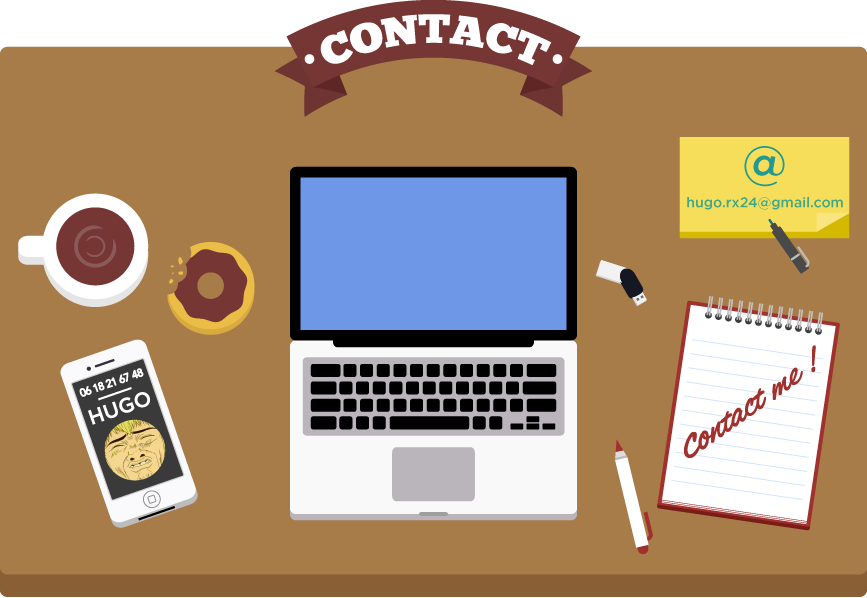
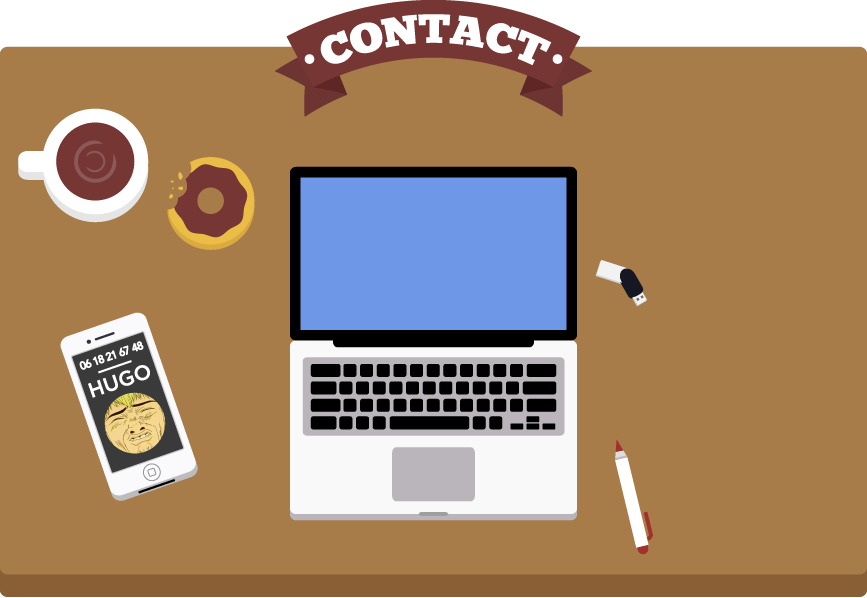
Petites corrections

Changed region(s): [[0.0, 0.1806, 0.3114, 0.903], [0.7474, 0.4816, 0.9654, 0.903], [0.7785, 0.2107, 0.9965, 0.4515]]

diff --git a/style.css b/style.css
@@ -11,6 +11,7 @@ html, body{
     background-color:#FCF9EE;
 }
 
+
 .bloc-center {
             margin:auto;
             position:relative;
@@ -59,6 +60,7 @@ html, body{
 .bloc-accueil-projects:hover {
 
         transform:scale(1.1);
+        transition: transform 1s ease-in-out;
 
 }
 
@@ -72,6 +74,7 @@ html, body{
 .bloc-accueil-contact:hover {
 
         transform:scale(1.1);
+        transition: transform 1s ease;
 
 }
 
@@ -87,13 +90,14 @@ html, body{
 .bloc-accueil-about:hover {
 
         transform:scale(1.1);
+        transition: transform 1s ease;
 
 }
 
 
 
 .bloc-project {
-
+            position:relative;
             background-image:url(images/page-projet.png);
             width:695px;
             height:604px;
@@ -102,43 +106,43 @@ html, body{
 .bloc-project-bouton-droit {
 
             position:absolute;
-            bottom:99px;
-            left:542px;
+            bottom:43px;
+            left:255px;
 }
 
 .bloc-project-bouton-gauche {
 
             position:absolute;
-            bottom:99px;
-            left:497px;
+            bottom:43px;
+            left:210px;
 }
 
 .bloc-project-bouton-home {
             
             position:absolute;
-            bottom:133px;
-            left:694px;
+            bottom:77px;
+            left:406px;
             
     }
 
 .bloc-project-bouton-about {
 
             position:absolute;
-            bottom:106px;
-            left:694px;
+            bottom:51px;
+            left:406px;
 }
 
 .bloc-project-bouton-contact {
 
             position:absolute;
-            bottom:80px;
-            left:694px;
+            bottom:24px;
+            left:406px;
 }
 
 .gallery {
         margin:auto;
-        width:500px;
-        height:250px;
+        width:366px;
+        height:235px;
 
 }
 
@@ -178,22 +182,29 @@ html, body{
 .bloc-feuille-project {
 
         position:absolute;
-        top:55px;
-        left:160px;
+        top:59px;
+        left:690px;
 }
 
 .bloc-feuille-about {
 
         position:absolute;
-        top:80px;
-        left:140px;
+        top:88px;
+        left:670px;
 }
 
 .bloc-feuille-home {
 
         position:absolute;
-        top:120px;
-        left:180px;
+        top:127px;
+        left:700px;
+}
+
+.bloc-contact-me {
+
+        position:absolute;
+        top:292px;
+        right:30px;
 }
 
 

diff --git a/projects.html b/projects.html
@@ -12,6 +12,12 @@
     <script src="js/jquery-1.11.0.min.js"></script>
 	<script src="lightbox/js/lightbox.js"></script>
 	<link href="lightbox/css/lightbox.css"/>
+	
+	    <script type="text/javascript" src="http://code.jquery.com/jquery-1.11.0.min.js"></script>
+<script type="text/javascript" src="http://code.jquery.com/jquery-migrate-1.2.1.min.js"></script>
+   
+       <script src="scripts.js"></script>
+   
 </head>
 
 

diff --git a/contact.html b/contact.html
@@ -34,6 +34,10 @@
                 <img src="images/feuille-home.png">
             </a>
    
+            <a href="mailto:hugo.rx24@gmail.com" class="bloc-contact-me">
+        
+                <img src="images/contact-me.png">
+            </a>
            
            
             

diff --git a/index.html b/index.html
@@ -6,10 +6,11 @@
    
     <meta charset="UTF-8">
     <title>Hugo Roux - CV en ligne</title>
+    
 </head>
 <link rel="stylesheet" href="style.css"/>
 
-<body>   
+<body class="body-home">   
         
         <main class="bloc-center bloc-accueil">
            
